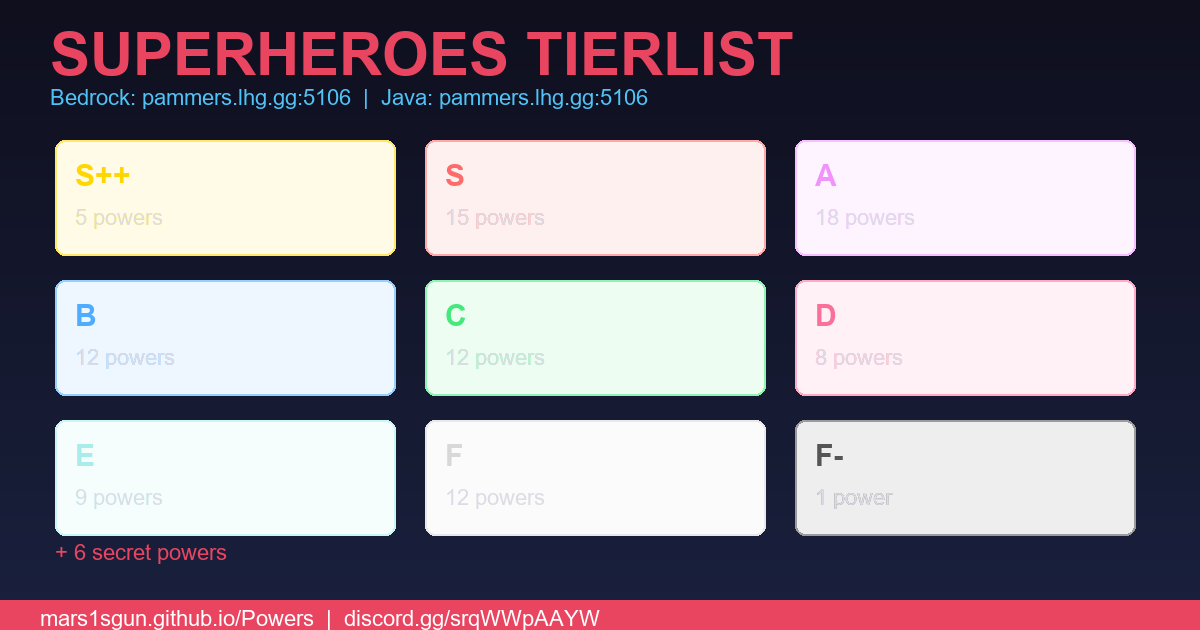
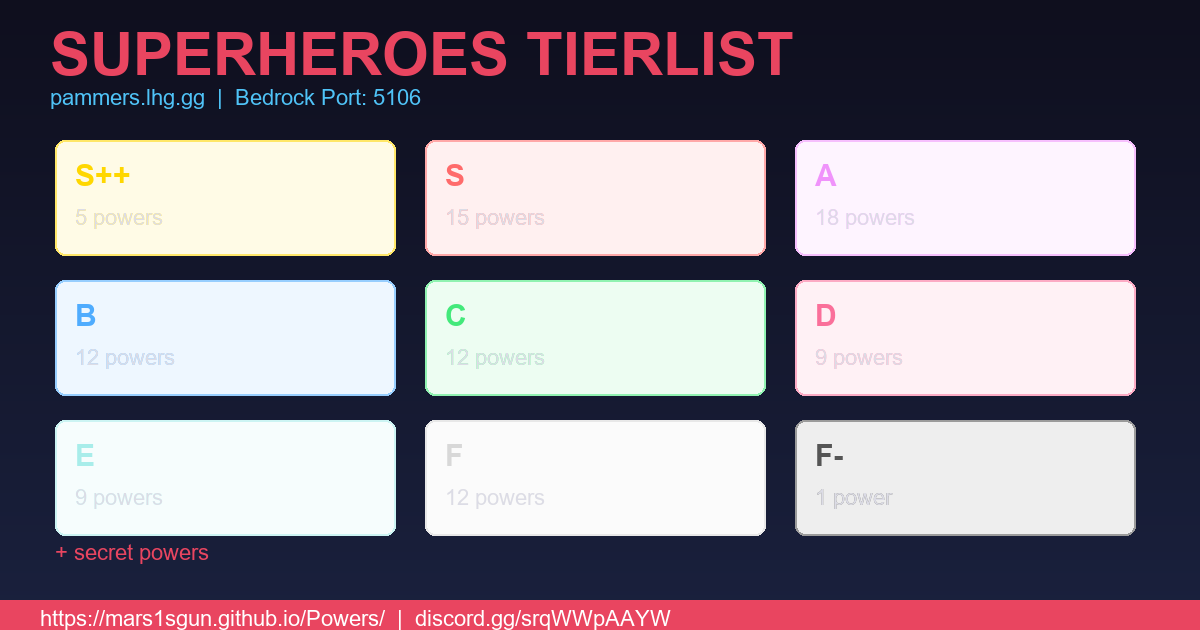
Add EmergencyExit to D tier

Changed region(s): [[0.0308, 0.1206, 0.555, 0.181], [0.0308, 0.9651, 0.555, 1.0], [0.0617, 0.8444, 0.185, 0.9048]]

diff --git a/index.html b/index.html
@@ -77,7 +77,7 @@ footer a{color:#b388ff;text-decoration:underline}
 <header>
 <h1>SUPERHEROES TIERLIST</h1>
 <p>All powers ranked — click a tier to expand/collapse</p>
-<p style="margin-top:.5rem;font-size:.9rem;color:#4fc3f7">Bedrock: <b>138.201.255.236</b> port <b>5183</b> &nbsp;|&nbsp; Java: <b>pammers.lhg.gg:5106</b></p>
+<p style="margin-top:.5rem;font-size:.9rem;color:#4fc3f7">Bedrock: <b>pammers.lhg.gg</b> port <b>5106</b> &nbsp;|&nbsp; Java: <b>pammers.lhg.gg:5106</b></p>
 </header>
 <div class="container" id="app"></div>
 <footer>Built by 1sGun &middot; join the discord <a href="https://discord.gg/srqWWpAAYW" target="_blank">https://discord.gg/srqWWpAAYW</a></footer>
@@ -88,8 +88,8 @@ const TIERS = [
     { name: "Tank", desc: "Reinforce yourself and repair all your gear.", howto: "Sneak (120s cd)", effects: "Resistance III, Absorption III, full repair", obtain: "Craft S++ PowerShard (8 amethyst + Deepslate Emerald Ore) & right-click to reroll.", chance: "36.4%" },
     { name: "Timeweaver", desc: "Stop time and teleport through space.", howto: "Left-click (5s cd) / Sneak (60s cd)", effects: "Teleport 30 blocks, Time Stop 15s", obtain: "Craft S++ PowerShard (8 amethyst + Deepslate Emerald Ore) & right-click to reroll.", chance: "9.1%" },
     { name: "Swiper", desc: "Shift-click a player to steal their power for 60s! S++ tier.", howto: "Sneak + right-click target player (180s cd, 120s with TempU)", effects: "Steal target's hero (60s), target becomes Powerless. Reverts after expiry.", obtain: "Craft S++ PowerShard (8 amethyst + Deepslate Emerald Ore) & right-click to reroll.", chance: "9.1%" },
-    { name: "Ichigo", desc: "You are Ichigo Kurosaki, a Soul Reaper from Karakura Town!", howto: "Zangetsu Stick: RC=slash, Sneak+RC=Getsuga Tensho. Hollowfication: RC toggle (hunger drain). Bankai: RC activate. Cero, Horn, True Bankai, FGT forms.", effects: "Zangetsu melee (8 dmg), Getsuga Tensho (10 dmg), Hollowfication (Speed+Strength), Bankai, Horn (Str V+Res IV), True Bankai, FGT (half HP). TempU: halved hunger, extended forms.", obtain: "Craft S++ PowerShard (8 amethyst + Deepslate Emerald Ore) & right-click to reroll.", chance: "18.2%" },
     { name: "Airbender", desc: "Master of the skies! Infinite double jump, no fall damage, wind powers.", howto: "Infinite double jump (space mid-air), no fall damage. Sprint for wind boost. Right-click Stick: Air Blast (1s) / Tornado (20s) / Wind Shield (15s). TempU: +Airburst stick, halved cooldowns, bigger/longer tornado", effects: "N/A", obtain: "Craft S++ PowerShard (8 amethyst + Deepslate Emerald Ore) & right-click to reroll.", chance: "27.3%" },
+    { name: "Ichigo", desc: "You are Ichigo Kurosaki, a Soul Reaper from Karakura Town!", howto: "Zangetsu Stick: RC=slash, Sneak+RC=Getsuga Tensho. Hollowfication Stick: RC=toggle (hunger drain). Bankai Stick: RC=activate. RC Cero while Hollow. Horn of Salvation, True Bankai, Final Getsuga Tensho. All forms have hunger drain & timed duration.", effects: "Zangetsu melee (8 dmg), Getsuga Tensho projectile (10 dmg), Hollowfication (Speed+Strength), Bankai (more dmg+speed), Horn (Strength V+Resistance IV), True Bankai (double reach), FGT (half enemy HP). TempU: halved hunger drain, extended forms.", obtain: "Craft S++ PowerShard (8 amethyst + Deepslate Emerald Ore) & right-click to reroll.", chance: "18.2%" },
   ]},
   { id: "s", label: "S", item: "NETHER_STAR", heroes: [
     { name: "Homelander", desc: "Fly through the skies and blast foes with laser vision and fireballs!", howto: "Jetpack (hold jump) + Right-click Redstone Block", effects: "Flight, Speed II, Strength II, Resistance II, Laser (6 dmg), Fireballs, X-ray", obtain: "Craft Legendary PowerShard (8 amethyst + Nether Star) & right-click to reroll.", chance: "3.6%" },
@@ -125,8 +125,8 @@ const TIERS = [
     { name: "Flashbang", desc: "Blind nearby players.", howto: "Sneak (60s cd)", effects: "AoE Blindness (20 blocks)", obtain: "Craft A PowerShard (8 amethyst + Diamond Block) & right-click to reroll.", chance: "10.0%" },
     { name: "Benson", desc: "Fly like Tinkerbell! Disabled for 5s on hit or when you hit someone.", howto: "Passive", effects: "Flight, disabled by Slowness II + Weakness V + Blindness for 5s on PvP.", obtain: "Craft A PowerShard (8 amethyst + Diamond Block) & right-click to reroll.", chance: "5.3%" },
     { name: "TheCrippler", desc: "Sneak to disable all powers within 15 blocks for 60s! A tier.", howto: "Sneak to trigger (180s cd, 120s with TempU)", effects: "AoE 15 blocks: all players set to Powerless (60s). Reverts after expiry.", obtain: "Craft A PowerShard (8 amethyst + Diamond Block) & right-click to reroll.", chance: "5.3%" },
-    { name: "TheCombo", desc: "Hit AND get hit to stack both atk and def - 1s window!", howto: "Passive - hitting AND getting hit builds combo for both +atk and -def", effects: "+atk per hit, -def per hit taken (1s window). TempU: 0.5s, 2x multiplier.", obtain: "Craft A PowerShard (8 amethyst + Diamond Block) & right-click to reroll.", chance: "5.3%" },
-    { name: "Sacrifice", desc: "Kill to heal - convert items into totems!", howto: "Passive - kills heal below 20 HP. Sneak with item to sacrifice for totem (60s cd, 30s TempU).", effects: "Kill heal below 20 HP. Sneak with item = 1 totem (60s cd, 30s TempU).", obtain: "Craft A PowerShard (8 amethyst + Diamond Block) & right-click to reroll.", chance: "5.3%" },
+    { name: "TheCombo", desc: "Hit AND get hit to stack +atk and -def — 1s window!", howto: "Passive — hitting and getting hit builds combo", effects: "+10% atk per hit, -10% def per hit taken (1s window). TempU: 0.5s window, 2x multiplier.", obtain: "Craft A PowerShard (8 amethyst + Diamond Block) & right-click to reroll.", chance: "5.3%" },
+    { name: "Sacrifice", desc: "Kill to heal — and convert items into totems!", howto: "Passive — kills heal below 20 HP. Sneak with item: sacrifice 1 for 1 totem (60s cd, 30s TempU).", effects: "Kill heal, item-to-totem conversion. TempU: halved cooldown.", obtain: "Craft A PowerShard (8 amethyst + Diamond Block) & right-click to reroll.", chance: "5.3%" },
   ]},
   { id: "b", label: "B", item: "GOLD_BLOCK", heroes: [
     { name: "SizeShift", desc: "Shrink or grow at will!", howto: "Right-click Amethyst Shard to shrink — Right-click Emerald to grow (30s duration)", effects: "Shrink: 0.25x scale, fast speed/attacks. Grow: 1.5x scale, +6 dmg, slow speed/attacks", obtain: "Craft B PowerShard (8 amethyst + Gold Block) & right-click to reroll.", chance: "8.5%" },
@@ -139,8 +139,8 @@ const TIERS = [
     { name: "GravitySucker", desc: "Control gravity.", howto: "Passive sneaking", effects: "Levitation, Slow falling, Repulse", obtain: "Craft B PowerShard (8 amethyst + Gold Block) & right-click to reroll.", chance: "8.5%" },
     { name: "Sucker", desc: "You suck everything.", howto: "Sneak", effects: "Attract (-0.8x, 3.4 radius)", obtain: "Craft B PowerShard (8 amethyst + Gold Block) & right-click to reroll.", chance: "16.0%" },
     { name: "Bubble", desc: "You have a bubble.", howto: "Sneak", effects: "Repulse (2x, 3.4 radius)", obtain: "Craft B PowerShard (8 amethyst + Gold Block) & right-click to reroll.", chance: "16.0%" },
-    { name: "ComboDefence", desc: "Get hit rapidly to stack endurance - 1s combo window!", howto: "Passive - get hit within 1s to stack Resistance + Absorption", effects: "Resistance + Absorption per hit (1s window). TempU: 0.5s window, 2x amp per stack.", obtain: "Craft B PowerShard (8 amethyst + Gold Block) & right-click to reroll.", chance: "8.5%" },
-    { name: "ComboOffence", desc: "Hit rapidly to stack strength - 1s combo window!", howto: "Passive - hit targets within 1s to stack Strength", effects: "Strength per hit (1s window). TempU: 0.5s window, 2x amp per stack.", obtain: "Craft B PowerShard (8 amethyst + Gold Block) & right-click to reroll.", chance: "8.5%" },
+    { name: "ComboDefence", desc: "Get hit rapidly to stack endurance + exponential window!", howto: "Passive — getting hit within 1s builds combo", effects: "-10% damage reduction per hit (1s window). TempU: 0.5s window, 2x multiplier. Window shrinks exponentially past 10.", obtain: "Craft B PowerShard (8 amethyst + Gold Block) & right-click to reroll.", chance: "8.5%" },
+    { name: "ComboOffence", desc: "Hit rapidly to stack strength + exponential window!", howto: "Passive — hitting within 1s builds combo", effects: "+10% damage per hit (1s window). TempU: 0.5s window, 2x multiplier. Window shrinks exponentially past 10.", obtain: "Craft B PowerShard (8 amethyst + Gold Block) & right-click to reroll.", chance: "8.5%" },
   ]},
   { id: "c", label: "C", item: "BOOKSHELF", heroes: [
     { name: "Frozone", desc: "Walk on water, slow others.", howto: "Passive", effects: "Water walk, Slowness aura", obtain: "Craft C PowerShard (8 amethyst + Bookshelf) & right-click to reroll.", chance: "3.9%" },
@@ -152,19 +152,19 @@ const TIERS = [
     { name: "DrCloak", desc: "Not attacked while disguised.", howto: "Sneak (30s cd)", effects: "10s invisibility, mobs lose target", obtain: "Craft C PowerShard (8 amethyst + Bookshelf) & right-click to reroll.", chance: "7.8%" },
     { name: "GravityGuy", desc: "Sneak to rise, let go to fall.", howto: "Sneak to rise", effects: "Levitation II, Slow falling", obtain: "Craft C PowerShard (8 amethyst + Bookshelf) & right-click to reroll.", chance: "14.7%" },
     { name: "Aerosurfer", desc: "Create platforms.", howto: "Sneak to create platforms", effects: "Glass platforms, Speed II", obtain: "Craft C PowerShard (8 amethyst + Bookshelf) & right-click to reroll.", chance: "14.7%" },
-    { name: "Coinflip", desc: "Sneak every 30s for 3 random effects - all good or all bad!", howto: "Sneak to flip (30s cd) - 3 random effects for 15s", effects: "3 random potion effects (15s, lvl 1). TempU: lvl 2.", obtain: "Craft C PowerShard (8 amethyst + Bookshelf) & right-click to reroll.", chance: "7.8%" },
-    { name: "Rabbit", desc: "Speed II + Jump II + no fall damage - auto-burrow on landing! TempU: Super Jump (sneak).", howto: "Passive: Speed II + Jump II + no fall damage. Landing = AoE stomp + auto-burrow. Sneak to unburrow early. TempU: Super Jump (sneak 10s cd).", effects: "Speed II, Jump II, no fall damage. Stomp + auto-burrow on landing. Sneak to unburrow early. TempU: 1.5x + Super Jump (sneak 10s cd).", obtain: "Craft C PowerShard (8 amethyst + Bookshelf) & right-click to reroll.", chance: "7.8%" },
-    { name: "DamageDelay", desc: "Sneak to absorb damage, unsneak to release AoE!", howto: "Sneak to absorb all damage (Weakness+Slowness applied). Unsneak to release AoE explosion (self-damage 30%).", effects: "Sneak: absorbs all damage, Weakness C+Slowness C. Unsneak: AoE explosion, 30% self-damage. TempU: 1.5x radius.", obtain: "", chance: "7.8%" },
+    { name: "Coinflip", desc: "Sneak every 30s for 3 random effects — all good or all bad!", howto: "Sneak to flip (30s cd)", effects: "3 good OR 3 bad potion effects (15s, lvl 1). TempU: lvl 2.", obtain: "Craft C PowerShard (8 amethyst + Bookshelf) & right-click to reroll.", chance: "7.8%" },
+    { name: "Rabbit", desc: "Speed, jump, stomp, and burrow!", howto: "Passive: Speed II + Jump II + no fall damage. Landing = AoE stomp + auto-burrow (invis+invuln). Sneak while burrowed to surface early. TempU: sneak for Super Jump XX (20s, 10s cd).", effects: "Speed II, Jump II, no fall damage. Stomp 0.3 dmg/block. Burrow 1.5 ticks/block. Sneak to unburrow early. TempU: 1.5x + Super Jump (sneak, 10s cd).", obtain: "Craft C PowerShard (8 amethyst + Bookshelf) & right-click to reroll.", chance: "7.8%" },
+    { name: "DamageDelay", desc: "Store incoming damage, then release it as an explosive AoE!", howto: "Sneak to absorb all incoming damage (Weakness+Slowness applied). Unsneak to release stored damage as AoE explosion (damages enemies + self for 30%).", effects: "Sneak: absorbs all damage, Weakness C + Slowness C. Unsneak: AoE explosion based on stored damage, 30% self-damage. TempU: 1.5x radius.", obtain: "Craft C PowerShard (8 amethyst + Bookshelf) & right-click to reroll.", chance: "7.8%" },
   ]},
   { id: "d", label: "D", item: "BONE_BLOCK", heroes: [
-    { name: "Floral", desc: "Create and consume flowers.", howto: "Look at ground / Right-click", effects: "11 flower types with buffs", obtain: "Craft D PowerShard (8 amethyst + Bone Block) & right-click to reroll.", chance: "7.1%" },
-    { name: "Aquaman", desc: "Walk underwater.", howto: "Passive", effects: "Water breathing, water walking", obtain: "Craft D PowerShard (8 amethyst + Bone Block) & right-click to reroll.", chance: "7.1%" },
-    { name: "LavaWalker", desc: "Walk on lava.", howto: "Passive", effects: "Lava walk, fire heals, fire immunity", obtain: "Craft D PowerShard (8 amethyst + Bone Block) & right-click to reroll.", chance: "7.1%" },
-    { name: "Pyromaniac", desc: "Create fire trails.", howto: "Walk", effects: "Fire trail, fire/lava immunity", obtain: "Craft D PowerShard (8 amethyst + Bone Block) & right-click to reroll.", chance: "7.1%" },
-    { name: "Chicken", desc: "You\'re a chicken.", howto: "Passive", effects: "Lay eggs, Speed III, Slow falling", obtain: "Craft D PowerShard (8 amethyst + Bone Block) & right-click to reroll.", chance: "22.3%" },
-    { name: "Pig", desc: "You\'re a pig", howto: "N/A", effects: "N/A", obtain: "", chance: "22.3%" },
-    { name: "Dolphin", desc: "Swim at great speeds!", howto: "Passive / Eat Ink Sac", effects: "Dolphins Grace V, Water breathing", obtain: "Craft D PowerShard (8 amethyst + Bone Block) & right-click to reroll.", chance: "13.4%" },
-    { name: "Tinkerbell", desc: "You are Tinkerbell!", howto: "Passive", effects: "Flight, Tiny (0.25x)", obtain: "Craft D PowerShard (8 amethyst + Bone Block) & right-click to reroll.", chance: "13.4%" },
+    { name: "Floral", desc: "Create and consume flowers.", howto: "Look at ground / Right-click", effects: "11 flower types with buffs", obtain: "Craft D PowerShard (8 amethyst + Bone Block) & right-click to reroll.", chance: "6.7%" },
+    { name: "Aquaman", desc: "Walk underwater.", howto: "Passive", effects: "Water breathing, water walking", obtain: "Craft D PowerShard (8 amethyst + Bone Block) & right-click to reroll.", chance: "6.7%" },
+    { name: "LavaWalker", desc: "Walk on lava.", howto: "Passive", effects: "Lava walk, fire heals, fire immunity", obtain: "Craft D PowerShard (8 amethyst + Bone Block) & right-click to reroll.", chance: "6.7%" },
+    { name: "Pyromaniac", desc: "Create fire trails.", howto: "Walk", effects: "Fire trail, fire/lava immunity", obtain: "Craft D PowerShard (8 amethyst + Bone Block) & right-click to reroll.", chance: "6.7%" },
+    { name: "Chicken", desc: "You\'re a chicken.", howto: "Passive", effects: "Lay eggs, Speed III, Slow falling", obtain: "Craft D PowerShard (8 amethyst + Bone Block) & right-click to reroll.", chance: "20.8%" },
+    { name: "Dolphin", desc: "Swim at great speeds!", howto: "Passive / Eat Ink Sac", effects: "Dolphins Grace V, Water breathing", obtain: "Craft D PowerShard (8 amethyst + Bone Block) & right-click to reroll.", chance: "12.5%" },
+    { name: "Tinkerbell", desc: "You are Tinkerbell!", howto: "Passive", effects: "Flight, Tiny (0.25x)", obtain: "Craft D PowerShard (8 amethyst + Bone Block) & right-click to reroll.", chance: "12.5%" },
+    { name: "EmergencyExit", desc: "Fatal damage teleports you away instead of dying!", howto: "Passive on fatal damage - teleports to random safe location (100s cd, 50s TempU).", effects: "Teleport + Speed II on death blow. 100s cd (50s TempU). TempU: Regen I.", obtain: "Craft D PowerShard (8 amethyst + Bone Block) & right-click to reroll.", chance: "6.7%" },
   ]},
   { id: "e", label: "E", item: "IRON_BLOCK", heroes: [
     { name: "Spartan", desc: "Unbreakable shield + arrows.", howto: "Right-click Arrow", effects: "Unbreakable shield, infinite arrows (3 dmg)", obtain: "Craft E PowerShard (8 amethyst + Iron Block) & right-click to reroll.", chance: "7.1%" },
@@ -180,7 +180,6 @@ const TIERS = [
   { id: "f", label: "F", item: "ZOMBIE_HEAD", heroes: [
     { name: "Creeper", desc: "You\'re a creeper.", howto: "Right-click to explode", effects: "Explosion (power 1), Remote detonation", obtain: "Craft F PowerShard (8 amethyst + Zombie Head) & right-click to reroll.", chance: "4.3%" },
     { name: "Enderman", desc: "Teleport by punching.", howto: "Left-click (10s cd)", effects: "Teleport 30 blocks, OHKO Endermen", obtain: "Craft F PowerShard (8 amethyst + Zombie Head) & right-click to reroll.", chance: "8.7%" },
-    { name: "SkeletonKing", desc: "You lead an army of skeletons!", howto: "N/A", effects: "N/A", obtain: "", chance: "4.3%" },
     { name: "Zombie", desc: "You are a zombie!", howto: "Passive", effects: "Resistance II, knockback, burns in sun", obtain: "Craft F PowerShard (8 amethyst + Zombie Head) & right-click to reroll.", chance: "8.7%" },
     { name: "Dragon", desc: "Throw fireballs.", howto: "Right-click (30s cd)", effects: "Dragon fireballs", obtain: "Craft F PowerShard (8 amethyst + Zombie Head) & right-click to reroll.", chance: "4.3%" },
     { name: "Dragon2", desc: "Suck and blow everyone!", howto: "Right-click (2s cd)", effects: "Levitation X, Repulse, Wind Charges", obtain: "Craft F PowerShard (8 amethyst + Zombie Head) & right-click to reroll.", chance: "4.3%" },
